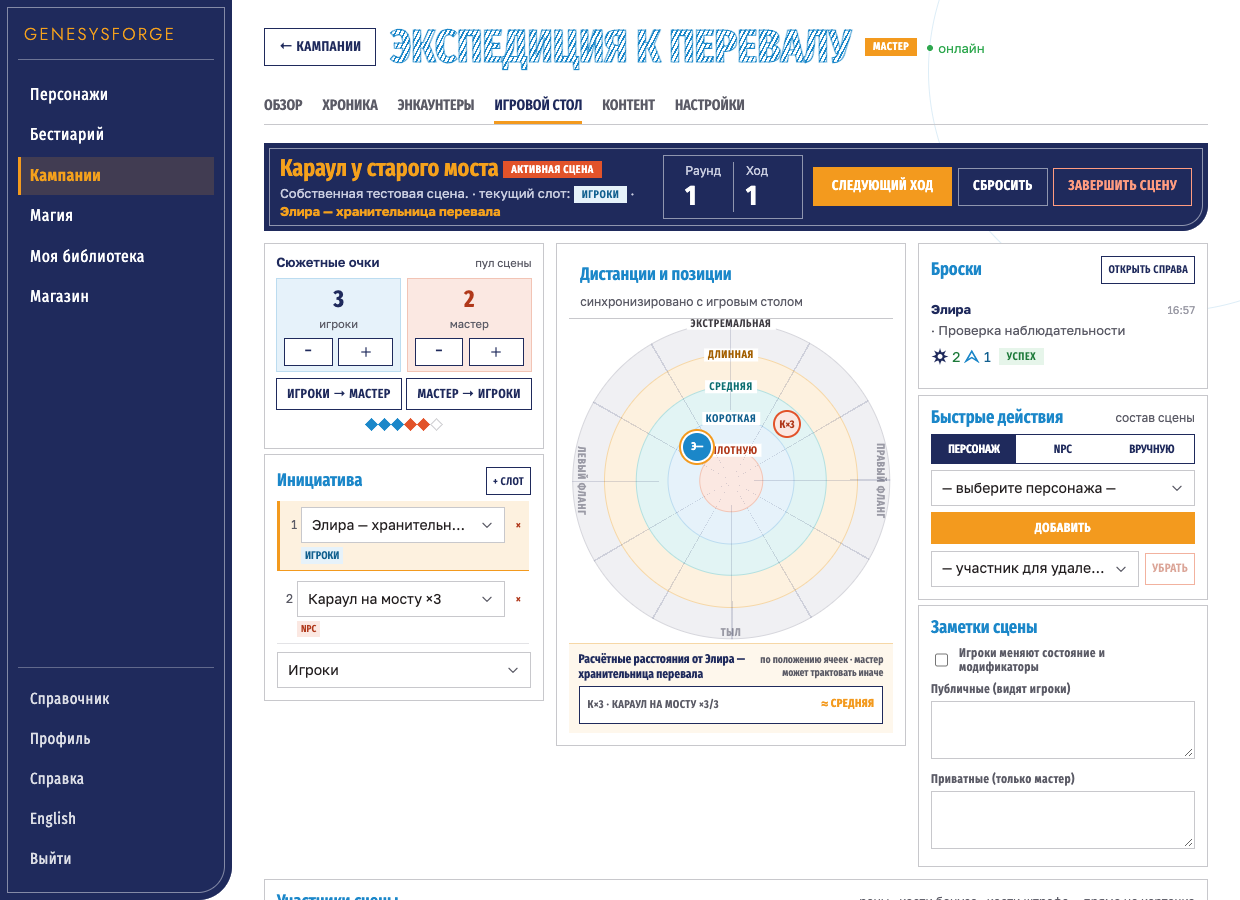
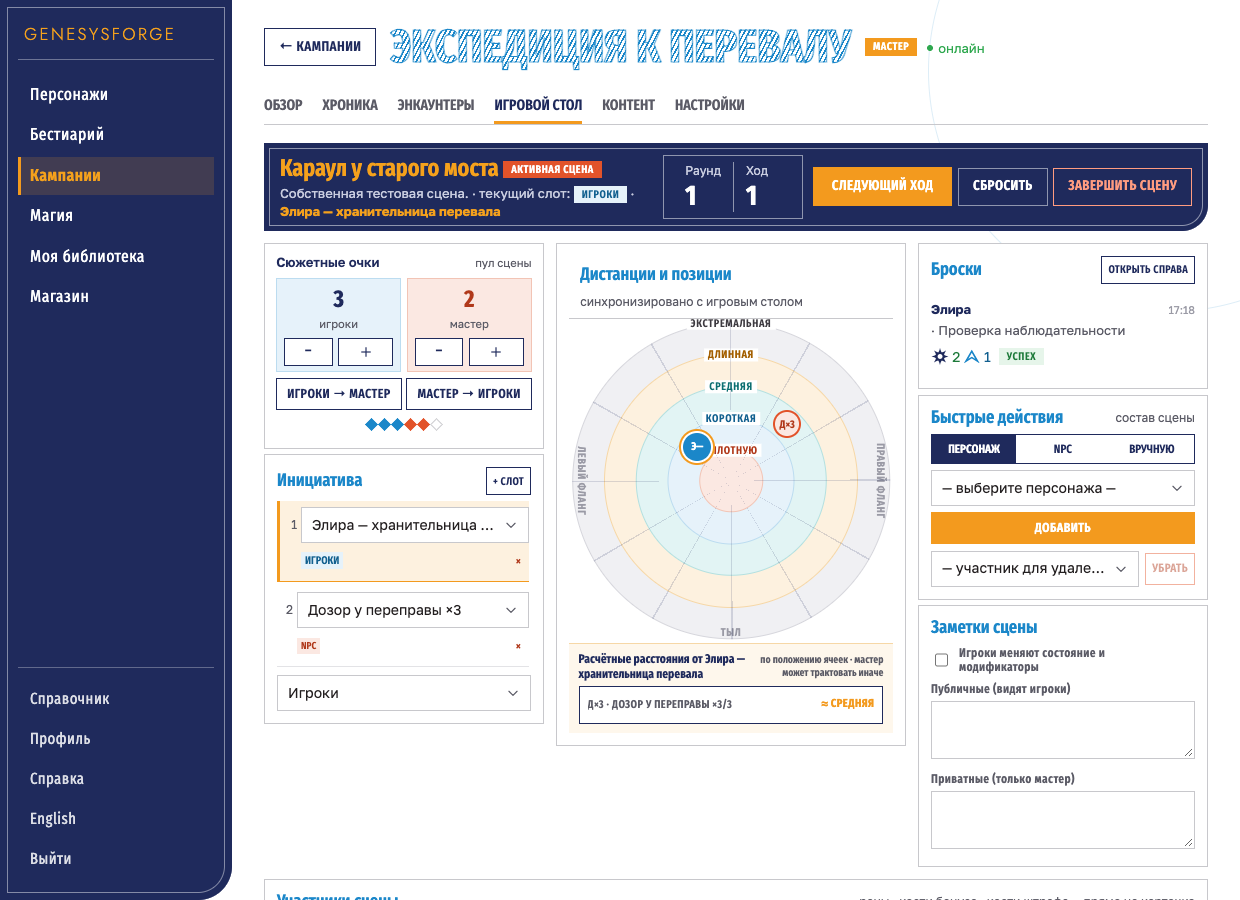
fix: preserve initiative label space across platforms

Changed region(s): [[0.2145, 0.56, 0.429, 0.8089], [0.4903, 0.7778, 0.5823, 0.8089]]

diff --git a/frontend/e2e/design-remarks.spec.ts b/frontend/e2e/design-remarks.spec.ts
@@ -85,7 +85,7 @@ test.beforeAll(async ({ request }) => {
     talents: [reference.talents[0].nameRu || reference.talents[0].name], equipment: [], abilities: [{ name: 'Тестовая способность', description: 'Собственное описание.' }], tags: [],
   })
   npcId = npc.id
-  const minion = await api<NpcDetail>(request, '/api/npcs/', { ...npc, id: undefined, name: 'Караул на мосту', kind: 'minion', strainThreshold: null, skills: [] })
+  const minion = await api<NpcDetail>(request, '/api/npcs/', { ...npc, id: undefined, name: 'Дозор у переправы', kind: 'minion', strainThreshold: null, skills: [] })
   await api(request, `/api/campaigns/${campaignId}/session/`, { name: 'Караул у старого моста', description: 'Собственная тестовая сцена.', playerStoryPoints: 3, gmStoryPoints: 2 })
   await api(request, `/api/campaigns/${campaignId}/session/participants`, { characterId })
   const session = await api<GameSession>(request, `/api/campaigns/${campaignId}/session/participants`, { npcId: minion.id, count: 3, participantType: 'minionGroup' })
@@ -229,7 +229,7 @@ for (const language of ['ru', 'en']) {
           await page.screenshot({ path: testInfo.outputPath(`${width}-${route.includes('new') ? route.split('=')[1] : 'npc'}.png`), fullPage: false })
         }
         await page.goto('/library')
-        await expect(page.locator('.rd-entry-description')).toContainText('Контроль пути')
+        await expect(page.locator('.rd-entry-description').filter({ hasText: 'Контроль пути' })).toContainText('Контроль пути')
         await expect(page.locator('.library-system-switch .active')).toContainText('Realms of Terrinoth')
         expect(await page.locator('.library-system-switch .rd-filter-chip').evaluateAll(nodes => nodes.some(node => !['none', 'normal'].includes(getComputedStyle(node, '::before').content)))).toBe(false)
         await fits(page)
@@ -437,12 +437,11 @@ for (const language of ['ru', 'en']) test(`GEN-V5-15 second review in ${language
       }
       if (width === 1240) {
         expect((await rect(page.locator('.left-rail'))).width).toBeCloseTo(280, 1)
-        expect(await page.locator('.init-row .select-value').first().evaluate(el => {
-          const context = document.createElement('canvas').getContext('2d')!
-          const style = getComputedStyle(el)
-          context.font = `${style.fontSize} ${style.fontFamily}`
-          return context.measureText('Страж северных ворот').width <= el.clientWidth
-        })).toBe(true)
+        const shortName = page.locator('.init-row .select-value').filter({ hasText: /^Дозор у переправы ×3$/ })
+        await expect(shortName).toHaveText('Дозор у переправы ×3')
+        const nameBounds = await shortName.evaluate(el => ({ label: el.textContent!, available: el.clientWidth, content: el.scrollWidth }))
+        expect(nameBounds.label).toHaveLength(20)
+        expect(nameBounds.content, JSON.stringify(nameBounds)).toBeLessThanOrEqual(nameBounds.available)
         for (const button of await page.locator('.story-transfer button').all()) expect((await rect(button)).height).toBeLessThanOrEqual(38.1)
         expect((await rect(page.locator('.left-rail'))).height).toBeLessThanOrEqual((await rect(page.locator('.center-stage'))).height)
       }

diff --git a/frontend/src/index.css b/frontend/src/index.css
@@ -5712,9 +5712,9 @@ button.rd-switch:not(.linklike):not(.back-link) { min-height:1.25rem; justify-co
   .table-shell { grid-template-columns:280px minmax(340px,1fr) 290px; }
   .init-row { grid-template-columns:16px minmax(0,1fr) 20px; }
   .init-row>.init-num { grid-column:1; grid-row:1; }
-  .init-row>.slot-assign,.init-row>.init-name { grid-column:2; grid-row:1; }
+  .init-row>.slot-assign,.init-row>.init-name { grid-column:2/-1; grid-row:1; }
   .init-row>.badge { grid-column:2; grid-row:2; justify-self:start; }
-  .init-row>button:not(.slot-assign) { grid-column:3; grid-row:1; }
+  .init-row>button:not(.slot-assign) { grid-column:3; grid-row:2; }
   .range-rings { width:min(100%,380px); max-width:380px; margin-inline:auto; }
   .story-transfer button:not(.linklike):not(.back-link) { white-space:nowrap; padding-inline:3px; }
   .badge,.sheet-page-head .badge,.badge.slot-player { font-size:11px; }
@@ -5740,6 +5740,8 @@ button.rd-switch:not(.linklike):not(.back-link) { min-height:1.25rem; justify-co
   .enc-head-actions { grid-column:2/-1; grid-row:3; }
   .table-shell { grid-template-columns:minmax(0,1fr); }
   .init-row { grid-template-columns:16px minmax(0,1fr) 44px; }
+  .init-row>.slot-assign,.init-row>.init-name { grid-column:2; }
+  .init-row>button:not(.slot-assign) { grid-row:1; }
   .table-shell .left-rail,.table-shell .center-stage,.table-shell .right-rail { grid-column:1; grid-row:auto; }
   .table-shell .participants-strip { grid-row:auto; }
   .rd-skill-grid-row { min-height:44px; }

diff --git a/roadmap/tasks/gen-v5-15-design-remarks-2.md b/roadmap/tasks/gen-v5-15-design-remarks-2.md
@@ -49,3 +49,4 @@
 - Все 17 пунктов выполняются в PR #297, без отдельного PR для Select.
 - E-01: факт списания и ID проекта сохраняются в существующей атомарной записи аудита старта. Отмена возвращает только подтверждённое этой записью списание: старые проекты не получают выдуманный возврат. Новые колонки/миграции не требуются.
 - E-11: в нативном модальном диалоге портал остаётся внутри `dialog` и выводится в верхнем слое через Popover API; обычный портал — в body. Иначе браузер блокирует мышь и доступность списка как внешнего по отношению к модальному диалогу.
+- Первый CI выявил неоднозначный селектор библиотеки после расширения fixture и нехватку места для имени слота на Linux. Селектор сужен; desktop-поле расширено, удаление стоит в строке бейджа. Проверка E-10 использует реальную подпись из 20 символов и DOM-ширины.
